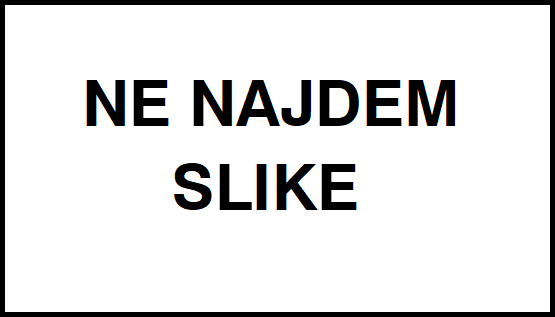
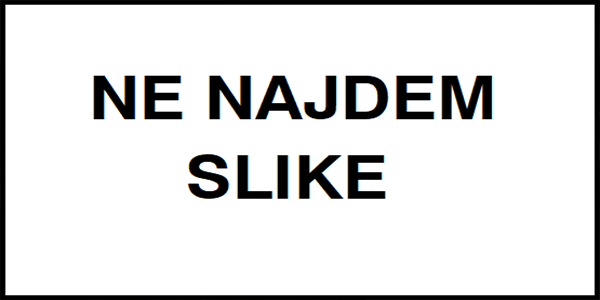
resized all pictures

diff --git a/frontend/src/components/Diner/DinerData/DinerInfo.js b/frontend/src/components/Diner/DinerData/DinerInfo.js
@@ -2,7 +2,7 @@
 const DinerData = {
     
     'roznakuhna': {
-        'image': require('./DinerImages/roznakuhna.jpg'),
+        'image': require('./DinerImages/roznakuhna.png'),
         'description': "To je opis restavracije Rožna kuhna"
     },
     
@@ -32,7 +32,7 @@ const DinerData = {
         'description': "To je opis restavracije Menza FE"
     },
     'menzapf': {
-        'image': require('./DinerImages/menzapf.jpg'),
+        'image': require('./DinerImages/menzapf.png'),
         'description': "To je opis restavracije Menza PF"
     },
 }
